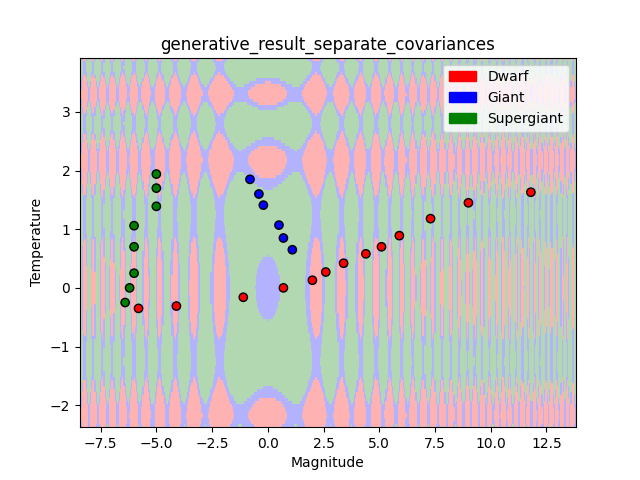
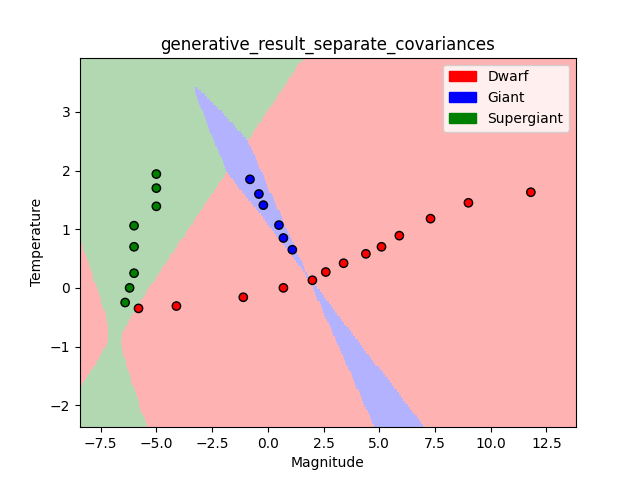
T2_P3_GaussianGenerativeModel.py

diff --git a/HW2/T2_P3_GaussianGenerativeModel.py b/HW2/T2_P3_GaussianGenerativeModel.py
@@ -1,3 +1,4 @@
+from functools import total_ordering
 import numpy as np
 from scipy.stats import multivariate_normal as mvn  # you may find this useful
 
@@ -11,6 +12,17 @@ from scipy.stats import multivariate_normal as mvn  # you may find this useful
 class GaussianGenerativeModel:
     def __init__(self, is_shared_covariance=False):
         self.is_shared_covariance = is_shared_covariance
+        
+        self.mean_matrix = np.zeros((3,2))
+        
+        self.cov_matrix = np.zeros((2,2))
+        self.cov_matrix0 = np.zeros((2,2))
+        self.cov_matrix1 = np.zeros((2,2))
+        self.cov_matrix2 = np.zeros((2,2))
+
+        self.num_class0 = 0
+        self.num_class1 = 0
+        self.num_class2 = 0
 
     # Just to show how to make 'private' methods
     def __dummyPrivateMethod(self, input):
@@ -18,18 +30,77 @@ class GaussianGenerativeModel:
 
     # TODO: Implement this method!
     def fit(self, X, y):
-        return
+        # X is 27 x 2
+        magnitudes = (X.T)[0]
+        temperatures = (X.T)[1]
+
+        self.num_class0 = np.count_nonzero(y == 0)
+        self.num_class1 = np.count_nonzero(y == 1)
+        self.num_class2 = np.count_nonzero(y == 2)
+
+        mag0 = 0
+        temp0 = 0
+        mag1 = 0
+        temp1 = 0
+        mag2 = 0
+        temp2 = 0
+        X_0 = []
+        X_1 = []
+        X_2 = []
+
+        for i, y_n in enumerate(y):
+            if y_n == 0:
+                mag0 += magnitudes[i]
+                temp0 += temperatures[i]
+                X_0.append(X[i])
+            if y_n == 1:
+                mag1 += magnitudes[i]
+                temp1 += temperatures[i]
+                X_1.append(X[i])
+            if y_n == 2:
+                mag2 += magnitudes[i]
+                temp2 += temperatures[i]
+                X_2.append(X[i])
+        
+        av_mag0 = mag0 / self.num_class0
+        av_mag1 = mag1 / self.num_class1
+        av_mag2 = mag2 / self.num_class2
+        av_temp0 = temp0 / self.num_class0
+        av_temp1 = temp1 / self.num_class1
+        av_temp2 = temp2 / self.num_class2
+
+        self.mean_matrix = np.array([[av_mag0, av_temp0], [av_mag1, av_temp1], [av_mag2, av_temp2]]) # 3 x 2
+
+        self.cov_matrix = np.cov(X.T) # 2 x 2
+        self.cov_matrix0 = np.cov(np.array(X_0).T)
+        self.cov_matrix1 = np.cov(np.array(X_1).T)
+        self.cov_matrix2 = np.cov(np.array(X_2).T)
+
+        return 
 
     # TODO: Implement this method!
     def predict(self, X_pred):
-        # The code in this method should be removed and replaced! We included it
-        # just so that the distribution code is runnable and produces a
-        # (currently meaningless) visualization.
-        preds = []
-        for x in X_pred:
-            z = np.sin(x ** 2).sum()
-            preds.append(1 + np.sign(z) * (np.abs(z) > 0.3))
-        return np.array(preds)
+        
+        total = (X_pred.shape)[0]
+        
+        predictions = []
+
+        for row in X_pred:
+            classification_probs = []
+
+            if self.is_shared_covariance:
+                prob_class0 = mvn.pdf(row, self.mean_matrix[0], self.cov_matrix) * self.num_class0 / total
+                prob_class1 = mvn.pdf(row, self.mean_matrix[1], self.cov_matrix) * self.num_class1 / total
+                prob_class2 = mvn.pdf(row, self.mean_matrix[2], self.cov_matrix) * self.num_class2 / total
+            else:
+                prob_class0 = mvn.pdf(row, self.mean_matrix[0], self.cov_matrix0) * self.num_class0 / total
+                prob_class1 = mvn.pdf(row, self.mean_matrix[1], self.cov_matrix1) * self.num_class1 / total
+                prob_class2 = mvn.pdf(row, self.mean_matrix[2], self.cov_matrix2) * self.num_class2 / total
+            classification_probs = [prob_class0, prob_class1, prob_class2]
+            
+            predictions.append(np.argmax(classification_probs))
+        
+        return np.array(predictions)
 
     # TODO: Implement this method!
     def negative_log_likelihood(self, X, y):
